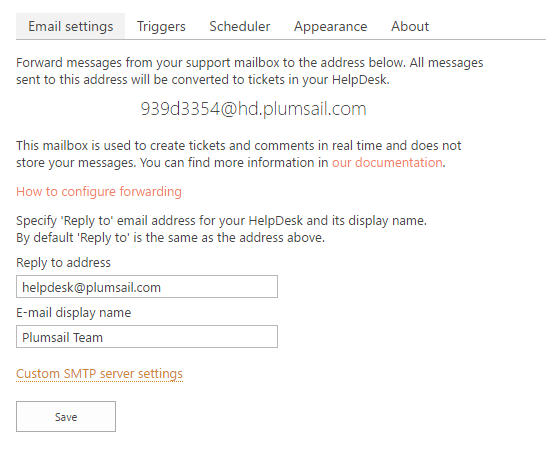
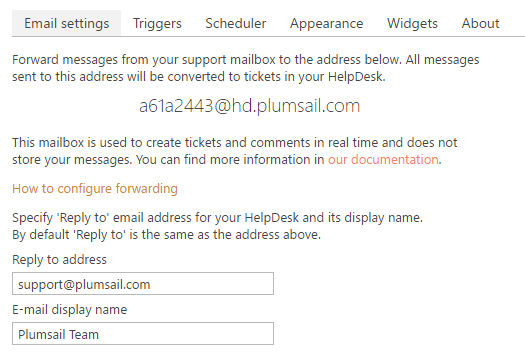
New article in docs and renewed pictures of E-mail settings

diff --git a/Online/Getting Started/Licensing details.rst b/Online/Getting Started/Licensing details.rst
@@ -1,0 +1,39 @@
+Licensing details
+#################
+
+Licensing details for HelpDesk for Office 365
+~~~~~~~~~~~~~~~~~~~~~~~~~~~~~~~~~~~~~~~~~~~~~~
+
+You can choose your billing cycle — purchase for one year or pay month-to-month. The subscription is linked to SharePoint Online domain (yourdomain.sharepoint.com). Depending on your plan, you can create one help desk instance within your SharePoint Online domain or unlimited help desk instances. 
+
+.. glossary::
+
+	What is an instance?
+		HelpDesk instance is a single installation to single SharePoint site.
+
+As for the rest, all plans have the same features. The only difference is in a number of comments, agents and, as it was mentioned above, instances. When you will get close to spent 85% of your monthly comments, we will send you a notification about it. Thus, you will have enough time to purchase additional 500 comments or pay a differential cost to start using another plan. Unfortunately, if you ran out of comments in this month, we will be forced to stop synchronization of your mail and you will not be allowed to create comments from the widget and via user interface as well.   
+
+Likely you start using Plumsail HelpDesk with a trial. The trial version gives you an opportunity to try our product with no limits. The trial period lasts for 30 days. If you choose not to purchase one of three plans, the help desk will stop working. For more details about plans, take a look at the table below.
+
++------------------+------------------+------------------+
+| Jet boat         | Yacht            | Ocean liner      |
++==================+==================+==================+
+| 10 agents        | 20 agents        |Unlimited agents  |
++------------------+------------------+------------------+
+|2000 comments     |6000 comments     |Unlimited amount  |
+|per month         |per month         |of comments       |
+|                  |                  |                  |
++------------------+------------------+------------------+
+|Unlimited         |Unlimited         |Unlimited         |
+|helpdesk instances|helpdesk instances|helpdesk instances|
++------------------+------------------+------------------+
+ 
+Licensing details for HelpDesk for SharePoint 2013/2016
+~~~~~~~~~~~~~~~~~~~~~~~~~~~~~~~~~~~~~~~~~~~~~~~~~~~~~~~
+
+By purchasing HelpDesk for SharePoint 2013 / 2016 you achieve a perpetual license. One license is linked to one Web Front End server (WFE). You need to purchase as many licenses as WFE servers you have. Find more information about WFE servers in `this article`_. The license includes one year of updates and `Standard Support Plan`_. The license is perpetual, but you can renew it to get one more year of Standard Support Plan and updates. 
+You can purchase renewal from `your shopper account`_.
+
+.. _this article: https://plumsail.com/blog/2016/10/what-is-sharepont-web-front-end-server-wfe/
+.. _Standard Support Plan: https://plumsail.com/support-plans/
+.. _your shopper account: http://plumsail.com/store/how-to-renew/

diff --git a/Online/General/Upgrade.rst b/Online/General/Upgrade.rst
@@ -1,0 +1,28 @@
+How to upgrade or renew your license
+####################################
+
+To upgrade/renew a subscription you need to sign into your personal store account. Navigate to https://secure.avangate.com/myaccount and sign in using your email and password. If you don’t have a password, you can easily receive it. Just click “Create New Account” and specify your order number or email address which you used to purchase the product. Avangate will send you the link to get your password.
+
+|SignInToAvangate|
+
+Once you signed in click at “My Products” at the top menu:
+
+|AvangateTopMenu|
+
+You will see the list of your products. Locate the product you want to upgrade/renew. You will see subscription status and expiration date. Click “Upgdare now” or "Upgrade now".
+
+ .. note::
+    | If you don’t see your product or the “Renew” link in the list, contact sales@plumsail.com to get renew link.
+
+You will be redirected to the confirmation and payment page, where you will be able to choose a payment method and specify your payment information. Your subscription/maintenance will be activated within one working day after receiving the payment.
+
+|RenewSample|
+
+Optionally you can enable auto-renewal for the product. See the “Enable auto-renewal” link at the picture above. So, renewal will be performed automatically using the credit card information you submitted.
+
+.. |SignInToAvangate| image:: /_static/img/SignInToAvangate.png
+   :alt: Signin to Avangate
+.. |AvangateTopMenu| image:: /_static/img/AvangateTopMenu.png
+   :alt: Avangate top menu
+.. |RenewSample| image:: /_static/img/RenewSample.png
+   :alt: Renew sample

diff --git a/Online/Configuration Guide/Upgrade manager.rst b/Online/Configuration Guide/Upgrade manager.rst
@@ -9,7 +9,7 @@ Navigate to settings using the icon in the navbar:
 
 Then click on "About" tab. You will see the interface of upgrade manager.
 
-.. note:: If you don't see "About" tab that means you are using HelpDesk version 1.0.0. You should manually navigate to URL ``<Site with HelpDesk>/HD/Settings/About.aspx``.
+.. note:: If you don't see "About" tab that means you are using HelpDesk version 1.0.0. You should manually navigate to URL ``<Site with HelpDesk>/HD/Pages/About.aspx``.
 
 |UpgradeManager|
 

diff --git a/Online/index.rst b/Online/index.rst
@@ -26,6 +26,7 @@ Office 365 documentation articles
       Getting Started/Installation
       Getting Started/License installation
       Getting Started/Quick HelpDesk configuration
+      Getting Started/Licensing details
       Community forum  <https://plumsail.com/forum/viewforum.php?f=33>
       Official blog <https://plumsail.com/blog/> 
       YouTube Channel<https://www.youtube.com/channel/UCagAskua1Vxk7X4nUt07ezA>
